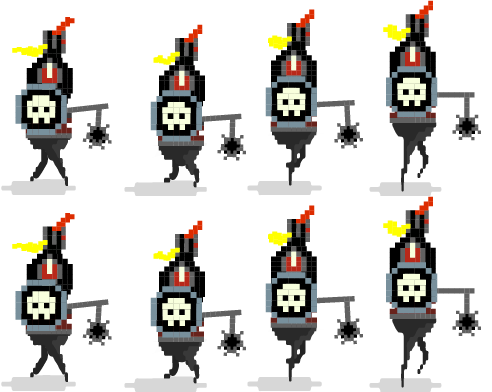
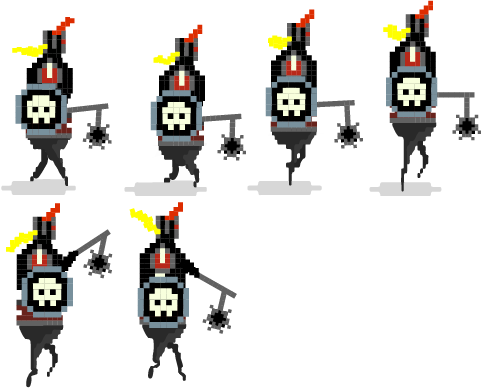
Animation on Player, Up and Down

diff --git a/scripts/main.js b/scripts/main.js
@@ -89,7 +89,7 @@ Parse.initialize("Ey61uM5w7LgMBbMuZxyHmbZJAowvgELIb1OW68YU", "V7Si7JS1Z52cQHXm8i
 Q.load("spotify.png, background.png, backgroundMiddle.png, backgroundFront.png, crate.png, stars.png,stars.json, player.png, player.json, bg1.png, bg1_old.png, fg1.png, fg2.png", function() {
     Q.compileSheets("player.png","player.json");
 	Q.compileSheets("stars.png","stars.json");
-	//Q.compileSheets("background.png, background.json,");
+
 	 Q.animations("stars", {
       blink: { frames: [0,1], rate: 1/3, flip: false, loop: true }
     });
@@ -97,7 +97,8 @@ Q.load("spotify.png, background.png, backgroundMiddle.png, backgroundFront.png, 
     Q.animations("player", {
       walk_right: { frames: [0,1,2,3], rate: 0.30, flip: false, loop: true },
 	  waiting : { frames: [0], rate: 1, flip: false, loop: true },
-      jump_right: { frames: [3], rate: 1/10, flip: false },
+      jump_up : { frames: [4], rate: 1/10, flip: false },
+	  jump_down : { frames: [5], rate: 1/10, flip: false }
     });
     Q.stageScene("level1");
 	Q.stageScene("spotify",2);

diff --git a/scripts/player.js b/scripts/player.js
@@ -93,8 +93,10 @@ Quintus.GamePlayer = function(Q){
 		else if(this.p.landed) {
 			this.play("walk_right");
 			
-		} else {
-		  this.play("jump_right");
+		} else if(this.p.vy < 0){
+			this.play("jump_up");
+		} else{
+			this.play("jump_down");
 		}
 	
   }
